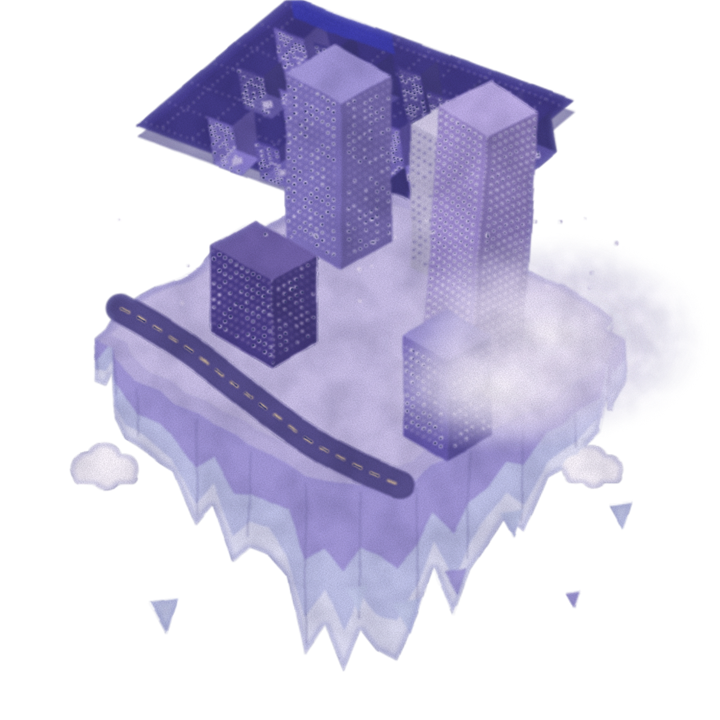
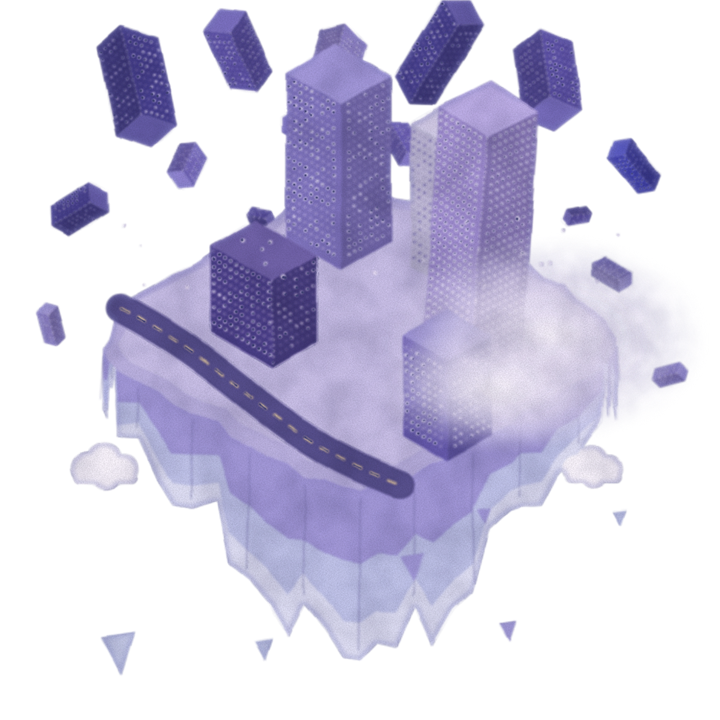
Endless City island: building blocks floating all around instead of an overhead plate

diff --git a/index.html b/index.html
@@ -202,7 +202,7 @@
         <button class="city-island" id="endlessIsland" type="button" aria-label="Endless City" data-video="images/3Dmodels/endlesscity.mp4" data-poster="images/3Dmodels/endlesscity.jpg"
                 style="--top:63%; --left:55%; --w:280px">
           <span class="city-island-inner">
-            <span class="island-float"><span class="island-shadow" aria-hidden="true"></span><img class="city-island-img" src="images/gamedesign/endlessisland-painted.png?v=2" alt="" /></span>
+            <span class="island-float"><span class="island-shadow" aria-hidden="true"></span><img class="city-island-img" src="images/gamedesign/endlessisland-painted.png?v=3" alt="" /></span>
             <span class="city-island-tag">Endless City</span>
           </span>
         </button>
